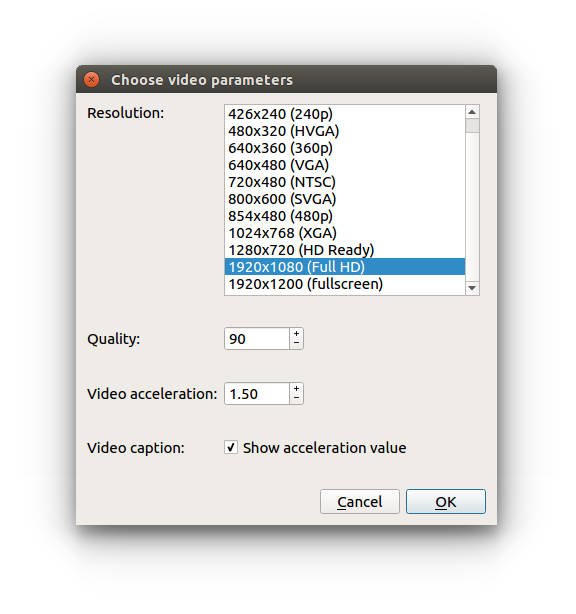
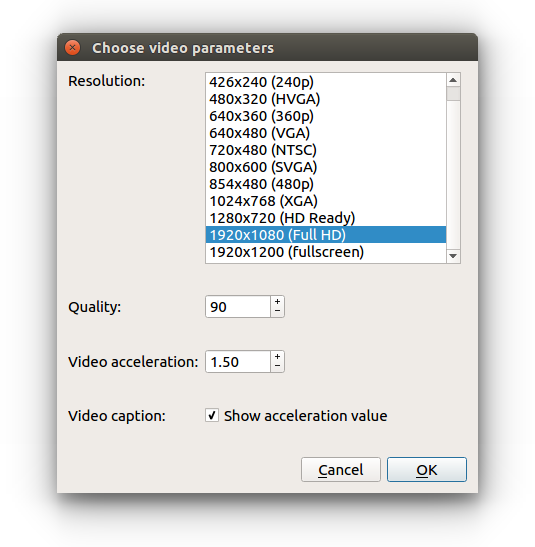
Reduce image size and try to fix caption

diff --git a/guide/the-user-interface.md b/guide/the-user-interface.md
@@ -111,7 +111,7 @@ The maximum slow down, i.e. the minimum acceleration value, is defined by the ba
 In order to increase the maximum slow down please consider reducing the simulation basic time step.
 Then, by checking the video caption option the current acceleration value can be displayed on the top right corner of the 3D scene.
 
-%figure "`Make Movie...` pop up dialog"
+%figure "\"Make Movie...\" pop up dialog"
 
 ![make_movie_dialog.png](images/make_movie_dialog.png)
 
